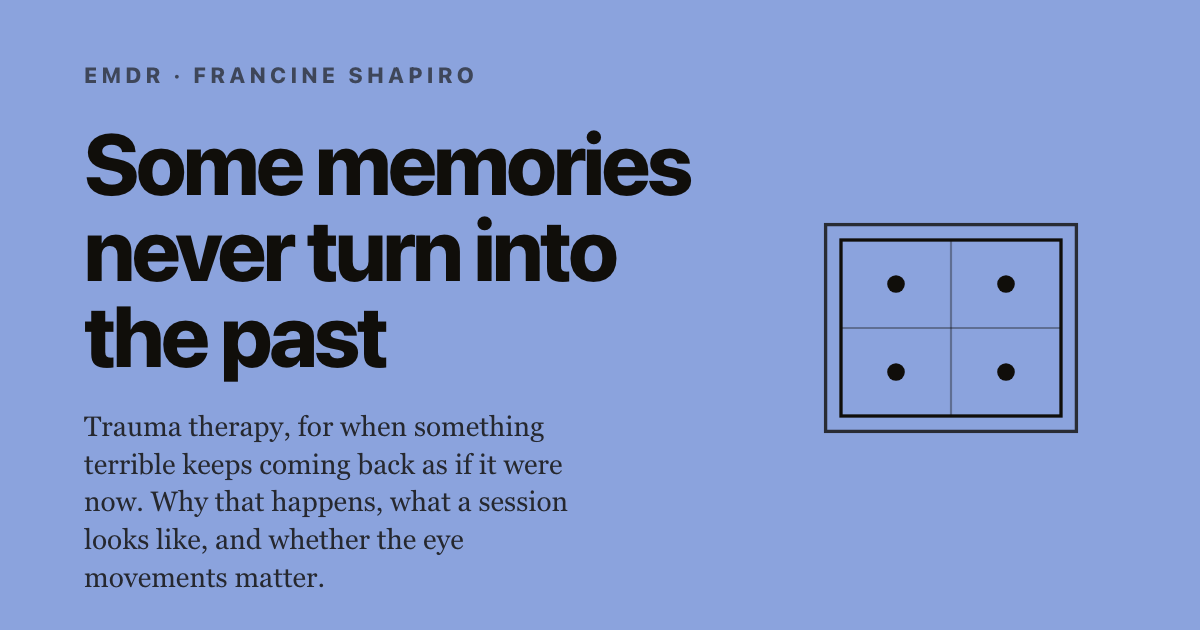
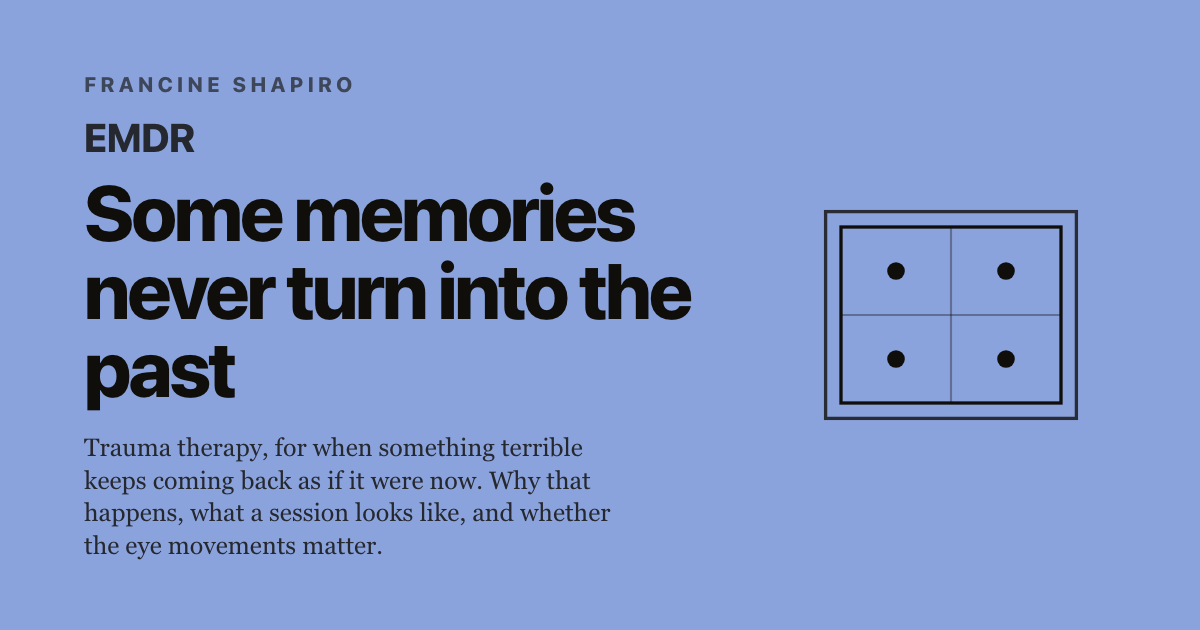
Name the term above every title
A .term line (EMDR, Polyvagal theory, TIST...) sits between the eyebrow and
the h1 on each page and above the h3 on each shelf slab, so the word the
reader came for is the first thing read. Eyebrows now carry the originator
or the expansion; share images rebuilt with the same line.

Claude-Session: https://claude.ai/code/session_01LodGAJcKhJKff81BhEtq2j

diff --git a/public/index.html b/public/index.html
@@ -53,7 +53,8 @@
   <a class="shelf-slab a" href="/tist/">
     <div class="shelf-inner">
       <div>
-        <p class="slab-pos">TIST &middot; Janina Fisher</p>
+        <p class="slab-pos">Janina Fisher</p>
+        <p class="term">TIST</p>
         <h3>The thing you do to cope is trying to help</h3>
         <p class="shelf-sub">For when the ways you cope (cutting, drinking, starving, wanting to die) are the things doing you harm. Why each one is a part of you that learned to survive, and what to say to it.</p>
         <p class="shelf-go">Read it</p>
@@ -77,7 +78,8 @@
   <a class="shelf-slab b" href="/ifs/">
     <div class="shelf-inner">
       <div>
-        <p class="slab-pos">IFS &middot; Richard Schwartz</p>
+        <p class="slab-pos">Richard Schwartz</p>
+        <p class="term">IFS</p>
         <h3>There are no bad parts</h3>
         <p class="shelf-sub">A therapy for when part of you keeps doing what the rest of you hates. The mind as a family of parts, the three jobs they take, and the Self underneath them.</p>
         <p class="shelf-go">Read it</p>
@@ -112,7 +114,8 @@
   <a class="shelf-slab c" href="/emdr/">
     <div class="shelf-inner">
       <div>
-        <p class="slab-pos">EMDR &middot; Francine Shapiro</p>
+        <p class="slab-pos">Francine Shapiro</p>
+        <p class="term">EMDR</p>
         <h3>Some memories never turn into the past</h3>
         <p class="shelf-sub">Trauma therapy, for when something terrible keeps coming back as if it were now. Why that happens, what a session looks like, and whether the eye movements matter.</p>
         <p class="shelf-go">Read it</p>
@@ -135,7 +138,8 @@
   <a class="shelf-slab a" href="/brainspotting/">
     <div class="shelf-inner">
       <div>
-        <p class="slab-pos">Brainspotting &middot; David Grand</p>
+        <p class="slab-pos">David Grand</p>
+        <p class="term">Brainspotting</p>
         <h3>Where you look affects how you feel</h3>
         <p class="shelf-sub">For trauma, and for whatever you cannot get past. Found by accident in 2003, and built on where your eyes happen to be pointing.</p>
         <p class="shelf-go">Read it</p>
@@ -160,7 +164,8 @@
   <a class="shelf-slab b" href="/polyvagal/">
     <div class="shelf-inner">
       <div>
-        <p class="slab-pos">Polyvagal theory &middot; Deb Dana</p>
+        <p class="slab-pos">Deb Dana</p>
+        <p class="term">Polyvagal theory</p>
         <h3>Your body decides before you do</h3>
         <p class="shelf-sub">A way to understand why you feel calm, anxious or shut down, what moves you back, and why none of it is your fault.</p>
         <p class="shelf-go">Read it</p>

diff --git a/public/tist/index.html b/public/tist/index.html
@@ -27,7 +27,8 @@
 <!-- ============ HERO ============ -->
 <section class="hero">
   <a class="backlink" href="/">What that therapy word means</a>
-  <p class="eyebrow">Trauma-Informed Stabilization Treatment (TIST), for beginners</p>
+  <p class="eyebrow">Trauma-Informed Stabilization Treatment, for beginners</p>
+  <p class="term">TIST</p>
   <h1 style="font-size: clamp(2.8rem, 9.5vw, 6.8rem)">The thing<br>you do to cope<br>is trying to help</h1>
   <p class="sub">A therapy for when the ways you cope are the things doing you harm: cutting, drinking, starving, wanting to die. Clinical psychologist Janina Fisher&rsquo;s idea that each of them is a part of you that learned to survive.</p>
   <div class="colourbar"><span></span><span></span><span></span></div>

diff --git a/public/assets/explainer.css b/public/assets/explainer.css
@@ -91,6 +91,19 @@ section {
   margin: 0 0 1.6rem;
 }
 
+/* the therapy's name as people say it — "EMDR", "Polyvagal theory" — set above the
+   h1 on a page and the h3 on a shelf slab, so the term is the first thing read and
+   the claim comes second. The originator's name lives in the eyebrow above it. */
+.term {
+  font-size: clamp(1.5rem, 3.4vw, 2.4rem);
+  font-weight: 800;
+  letter-spacing: -.02em;
+  line-height: 1;
+  margin: 0 0 1.2rem;
+  color: var(--accent-a);
+}
+.shelf-slab .term { color: var(--on-field); opacity: .82; margin-bottom: 1rem; }
+
 h1 {
   font-size: clamp(3rem, 11vw, 8rem);
   font-weight: 800;

diff --git a/public/ifs/index.html b/public/ifs/index.html
@@ -27,7 +27,8 @@
 <!-- ============ HERO ============ -->
 <section class="hero">
   <a class="backlink" href="/">What that therapy word means</a>
-  <p class="eyebrow">Internal Family Systems (IFS), for beginners</p>
+  <p class="eyebrow">Internal Family Systems, for beginners</p>
+  <p class="term">IFS</p>
   <h1>There are<br>no bad<br>parts</h1>
   <p class="sub">A therapy for when part of you keeps doing what the rest of you hates. Family therapist Richard Schwartz&rsquo;s picture of the mind as a family, where everyone is trying to help.</p>
   <div class="colourbar"><span></span><span></span><span></span></div>

diff --git a/public/polyvagal/index.html b/public/polyvagal/index.html
@@ -27,7 +27,8 @@
 <!-- ============ HERO ============ -->
 <section class="hero">
   <a class="backlink" href="/">What that therapy word means</a>
-  <p class="eyebrow">Polyvagal theory, for beginners</p>
+  <p class="eyebrow">Deb Dana, for beginners</p>
+  <p class="term">Polyvagal theory</p>
   <h1>Your body<br>decides<br>before you do</h1>
   <p class="sub">A way to understand why you feel calm, anxious or shut down, and what moves you back to calm. Trauma therapist Deb Dana&rsquo;s plain-language version, and why none of it is your fault.</p>
   <div class="colourbar"><span></span><span></span><span></span></div>

diff --git a/public/emdr/index.html b/public/emdr/index.html
@@ -27,7 +27,8 @@
 <!-- ============ HERO ============ -->
 <section class="hero">
   <a class="backlink" href="/">What that therapy word means</a>
-  <p class="eyebrow">EMDR, for beginners</p>
+  <p class="eyebrow">Francine Shapiro, for beginners</p>
+  <p class="term">EMDR</p>
   <h1>Some memories<br>never turn<br>into the past</h1>
   <p class="sub">A therapy for trauma: for when something terrible happened and it keeps coming back as if it were now. Eye Movement Desensitisation and Reprocessing, developed by psychologist Francine Shapiro.</p>
   <div class="colourbar"><span></span><span></span><span></span></div>

diff --git a/public/brainspotting/index.html b/public/brainspotting/index.html
@@ -27,7 +27,8 @@
 <!-- ============ HERO ============ -->
 <section class="hero">
   <a class="backlink" href="/">What that therapy word means</a>
-  <p class="eyebrow">Brainspotting, for beginners</p>
+  <p class="eyebrow">David Grand, for beginners</p>
+  <p class="term">Brainspotting</p>
   <h1>Where you<br>look affects<br>how you feel</h1>
   <p class="sub">A therapy for trauma, and for whatever you cannot get past: a memory, a fear, a jump you keep missing. Developed by psychotherapist David Grand.</p>
   <div class="colourbar"><span></span><span></span><span></span></div>
